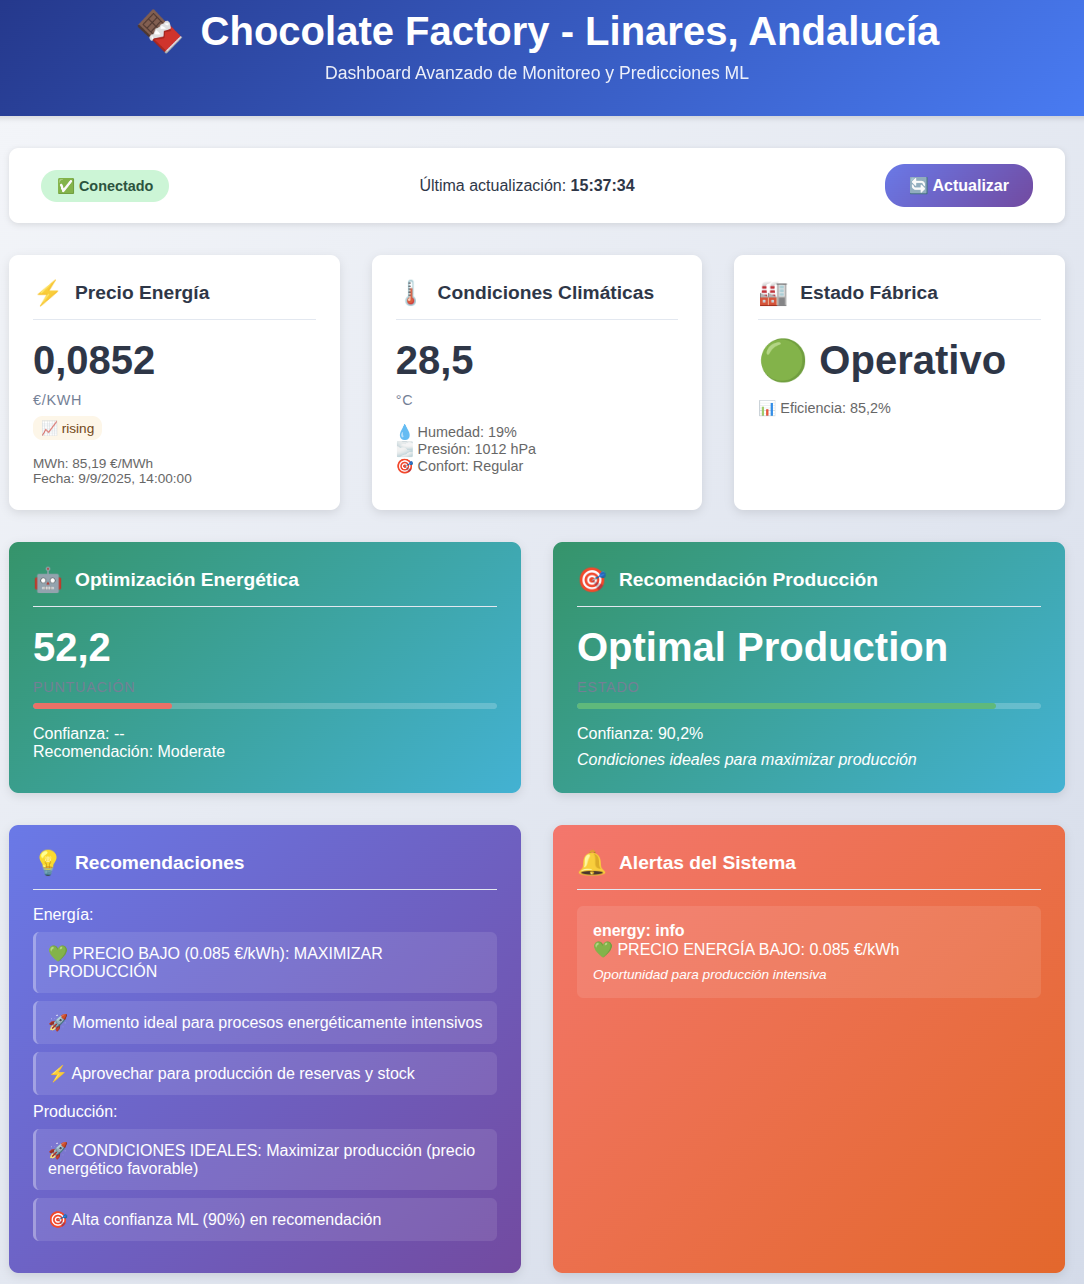
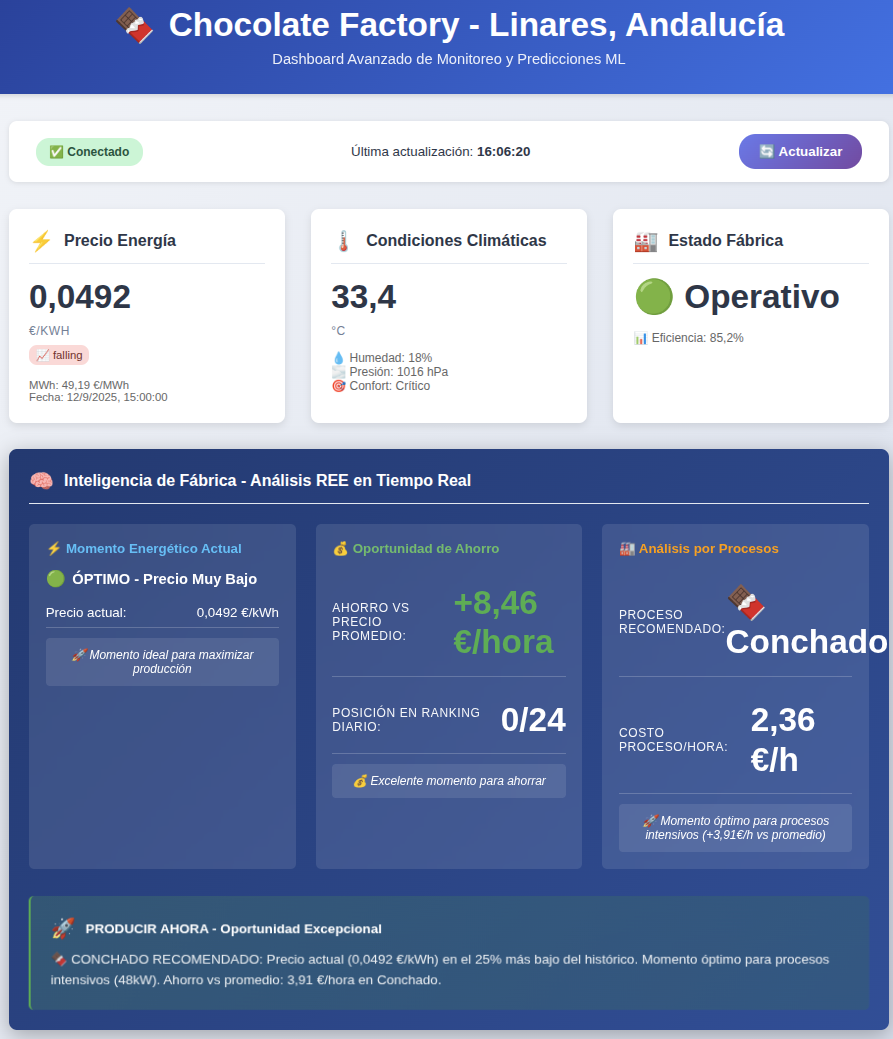
capturas nuevas

diff --git a/src/fastapi-app/main.py b/src/fastapi-app/main.py
@@ -2909,6 +2909,22 @@ async def serve_enhanced_dashboard():
                 font-size: 1rem;
             }
             
+            /* Tamaños específicos para la tarjeta de inteligencia */
+            .savings-insight .metric-value,
+            .process-analysis .metric-value {
+                font-size: 1.2rem !important;
+                font-weight: 700;
+                line-height: 1.2;
+            }
+            
+            /* Valores específicos que se salen de la tarjeta */
+            #current-savings-potential,
+            #recommended-process,
+            #process-cost {
+                font-size: 0.9rem !important;
+                font-weight: 600;
+            }
+            
             #optimization-recommendations .recommendation-item {
                 margin-bottom: 0.5rem;
                 padding: 0.5rem;
@@ -2932,7 +2948,7 @@ async def serve_enhanced_dashboard():
                 backdrop-filter: blur(10px);
             }
             
-            .current-status, .savings-insight {
+            .current-status, .savings-insight, .process-analysis {
                 display: flex;
                 flex-direction: column;
                 gap: 0.75rem;
@@ -2950,7 +2966,7 @@ async def serve_enhanced_dashboard():
                 font-size: 1.2rem;
             }
             
-            .status-detail, .savings-metric {
+            .status-detail, .savings-metric, .process-metric {
                 display: flex;
                 justify-content: space-between;
                 align-items: center;
@@ -2958,11 +2974,11 @@ async def serve_enhanced_dashboard():
                 border-bottom: 1px solid rgba(255, 255, 255, 0.2);
             }
             
-            .status-detail:last-child, .savings-metric:last-child {
+            .status-detail:last-child, .savings-metric:last-child, .process-metric:last-child {
                 border-bottom: none;
             }
             
-            .status-action, .savings-action {
+            .status-action, .savings-action, .process-action {
                 padding: 0.75rem;
                 background: rgba(255, 255, 255, 0.1);
                 border-radius: 6px;
@@ -3177,7 +3193,7 @@ async def serve_enhanced_dashboard():
                     <span class="card-icon">🧠</span>
                     <span class="card-title">Inteligencia de Fábrica - Análisis REE en Tiempo Real</span>
                 </div>
-                <div class="grid grid-2" style="gap: 1.5rem; margin-top: 1.5rem;">
+                <div class="grid grid-3" style="gap: 1.5rem; margin-top: 1.5rem;">
                     <!-- Momento Óptimo Actual -->
                     <div class="insights-section">
                         <h4 style="color: #4FC3F7; margin-bottom: 1rem; font-size: 1rem;">⚡ Momento Energético Actual</h4>
@@ -3209,6 +3225,24 @@ async def serve_enhanced_dashboard():
                             </div>
                             <div class="savings-action" id="savings-action">
                                 Analizando oportunidades...
+                            </div>
+                        </div>
+                    </div>
+                    
+                    <!-- Análisis por Procesos -->
+                    <div class="insights-section">
+                        <h4 style="color: #FF9800; margin-bottom: 1rem; font-size: 1rem;">🏭 Análisis por Procesos</h4>
+                        <div class="process-analysis">
+                            <div class="process-metric">
+                                <span class="metric-label">Proceso Recomendado:</span>
+                                <span class="metric-value" id="recommended-process">--</span>
+                            </div>
+                            <div class="process-metric">
+                                <span class="metric-label">Costo Proceso/hora:</span>
+                                <span class="metric-value" id="process-cost">-- €/h</span>
+                            </div>
+                            <div class="process-action" id="process-action">
+                                Calculando procesos...
                             </div>
                         </div>
                     </div>
@@ -3380,7 +3414,7 @@ async def serve_enhanced_dashboard():
                 </div>
                 <div class="sources-grid">
                     <div class="source-item">⚡ REE (Precios)</div>
-                    <div class="source-item">🌡 AEMET (00-07h)</div>
+                    <div class="source-item">🌡 AEMET 5279X (00-07h)</div>
                     <div class="source-item">☁ OpenWeather (08-23h)</div>
                     <div class="source-item">🤖 ML Direct</div>
                 </div>
@@ -3388,7 +3422,7 @@ async def serve_enhanced_dashboard():
         </div>
         
         <div class="footer">
-            Chocolate Factory - Linares, Andalucía | Dashboard v0.9.0 | 
+            Chocolate Factory - Linares, Andalucía | Dashboard v0.19.0 | 
             Powered by FastAPI + ML Predictions
         </div>
         
@@ -3579,6 +3613,53 @@ Recomendación: ${day.production_recommendation}`;
                     }
                 }
                 
+                // Análisis por procesos de fábrica
+                const processes = {
+                    'Conchado': 48,    // kW - Proceso más intensivo
+                    'Rolado': 42,      // kW - Refinado del chocolate
+                    'Templado': 36,    // kW - Control de temperatura
+                    'Mezcla': 30       // kW - Proceso básico
+                };
+                
+                // Calcular costo por proceso en el precio actual
+                const processCosts = Object.entries(processes).map(([name, kw]) => ({
+                    name,
+                    kw,
+                    costPerHour: currentPrice * kw,
+                    savingsVsAvg: (avgPrice - currentPrice) * kw
+                }));
+                
+                // Recomendar proceso basado en precio actual
+                const recommendedProcessEl = document.getElementById('recommended-process');
+                const processCostEl = document.getElementById('process-cost');
+                const processActionEl = document.getElementById('process-action');
+                
+                if (pricePosition <= 0.25) {
+                    // Precio muy bajo - recomendar proceso más intensivo
+                    const bestProcess = processCosts[0]; // Conchado (48kW)
+                    if (recommendedProcessEl) recommendedProcessEl.textContent = '🍫 Conchado';
+                    if (processCostEl) processCostEl.textContent = formatSpanishNumber(bestProcess.costPerHour, 2) + ' €/h';
+                    if (processActionEl) processActionEl.textContent = `🚀 Momento óptimo para procesos intensivos (+${formatSpanishNumber(bestProcess.savingsVsAvg, 2)}€/h vs promedio)`;
+                } else if (pricePosition <= 0.4) {
+                    // Precio bajo-medio - recomendar proceso intermedio
+                    const goodProcess = processCosts[1]; // Rolado (42kW)
+                    if (recommendedProcessEl) recommendedProcessEl.textContent = '🔄 Rolado';
+                    if (processCostEl) processCostEl.textContent = formatSpanishNumber(goodProcess.costPerHour, 2) + ' €/h';
+                    if (processActionEl) processActionEl.textContent = `✅ Condiciones favorables para refinado (+${formatSpanishNumber(goodProcess.savingsVsAvg, 2)}€/h)`;
+                } else if (pricePosition <= 0.6) {
+                    // Precio medio - recomendar proceso estándar
+                    const stdProcess = processCosts[2]; // Templado (36kW)
+                    if (recommendedProcessEl) recommendedProcessEl.textContent = '🌡 Templado';
+                    if (processCostEl) processCostEl.textContent = formatSpanishNumber(stdProcess.costPerHour, 2) + ' €/h';
+                    if (processActionEl) processActionEl.textContent = `⚖ Proceso estándar recomendado (${formatSpanishNumber(Math.abs(stdProcess.savingsVsAvg), 2)}€/h vs promedio)`;
+                } else {
+                    // Precio alto - recomendar proceso de menor consumo
+                    const lowProcess = processCosts[3]; // Mezcla (30kW)
+                    if (recommendedProcessEl) recommendedProcessEl.textContent = '🥄 Mezcla';
+                    if (processCostEl) processCostEl.textContent = formatSpanishNumber(lowProcess.costPerHour, 2) + ' €/h';
+                    if (processActionEl) processActionEl.textContent = `⚠ Solo procesos básicos recomendados (sobrecosto: +${formatSpanishNumber(Math.abs(lowProcess.savingsVsAvg), 2)}€/h)`;
+                }
+                
                 // Recomendación principal inteligente
                 const recIconEl = document.getElementById('recommendation-icon');
                 const recTitleEl = document.getElementById('recommendation-title');
@@ -3587,23 +3668,23 @@ Recomendación: ${day.production_recommendation}`;
                 if (pricePosition <= 0.25) {
                     if (recIconEl) recIconEl.textContent = '🚀';
                     if (recTitleEl) recTitleEl.textContent = 'PRODUCIR AHORA - Oportunidad Excepcional';
-                    if (recDetailEl) recDetailEl.textContent = `Precio actual (${formatSpanishNumber(currentPrice, 4)} €/kWh) está en el 25% más bajo del histórico. Ahorro potencial: ${formatSpanishNumber(savingsPerHour, 2)} €/hora vs promedio. Momento ideal para maximizar producción y aprovechar costos energéticos reducidos.`;
+                    if (recDetailEl) recDetailEl.textContent = `🍫 CONCHADO RECOMENDADO: Precio actual (${formatSpanishNumber(currentPrice, 4)} €/kWh) en el 25% más bajo del histórico. Momento óptimo para procesos intensivos (48kW). Ahorro vs promedio: ${formatSpanishNumber((avgPrice - currentPrice) * 48, 2)} €/hora en Conchado.`;
                 } else if (pricePosition <= 0.4) {
                     if (recIconEl) recIconEl.textContent = '✅';
-                    if (recTitleEl) recTitleEl.textContent = 'PRODUCIR - Condiciones Favorables';
-                    if (recDetailEl) recDetailEl.textContent = `Precio energético favorable para producción. Costo actual ${formatSpanishNumber(((currentPrice - minPrice) / (maxPrice - minPrice)) * 100, 1)}% por encima del mínimo histórico. Recomendado proceder con planificación normal.`;
+                    if (recTitleEl) recTitleEl.textContent = 'PRODUCIR - Rolado Recomendado';
+                    if (recDetailEl) recDetailEl.textContent = `🔄 ROLADO FAVORABLE: Condiciones buenas para refinado (42kW). Costo actual: ${formatSpanishNumber(currentPrice * 42, 2)} €/hora. Ahorro vs promedio: +${formatSpanishNumber((avgPrice - currentPrice) * 42, 2)} €/hora.`;
                 } else if (pricePosition <= 0.6) {
                     if (recIconEl) recIconEl.textContent = '⚖';
-                    if (recTitleEl) recTitleEl.textContent = 'EVALUAR - Precio Medio';
-                    if (recDetailEl) recDetailEl.textContent = `Precio en rango medio del histórico. Evaluar urgencia vs costo. Si no es urgente, considerar esperar a precios más favorables. Diferencia vs óptimo: +${formatSpanishNumber((currentPrice - minPrice) * hourlyConsumption, 2)} €/hora.`;
+                    if (recTitleEl) recTitleEl.textContent = 'EVALUAR - Templado Estándar';
+                    if (recDetailEl) recDetailEl.textContent = `🌡 TEMPLADO RECOMENDADO: Precio medio, ideal para procesos estándar (36kW). Costo: ${formatSpanishNumber(currentPrice * 36, 2)} €/hora. Evaluar urgencia vs esperar mejores condiciones para procesos intensivos.`;
                 } else if (pricePosition <= 0.8) {
                     if (recIconEl) recIconEl.textContent = '⚠';
-                    if (recTitleEl) recTitleEl.textContent = 'DIFERIR - Precio Elevado';
-                    if (recDetailEl) recDetailEl.textContent = `Precio en el 20% superior del rango histórico. Recomendado diferir producción no urgente. Costo adicional vs momento óptimo: +${formatSpanishNumber((currentPrice - minPrice) * hourlyConsumption, 2)} €/hora.`;
+                    if (recTitleEl) recTitleEl.textContent = 'DIFERIR - Solo Procesos Básicos';
+                    if (recDetailEl) recDetailEl.textContent = `🥄 SOLO MEZCLA: Precio elevado, limitarse a procesos básicos (30kW). Costo Mezcla: ${formatSpanishNumber(currentPrice * 30, 2)} €/hora. Diferir Conchado y Rolado hasta mejores condiciones.`;
                 } else {
                     if (recIconEl) recIconEl.textContent = '🛑';
-                    if (recTitleEl) recTitleEl.textContent = 'SUSPENDER - Precio Muy Alto';
-                    if (recDetailEl) recDetailEl.textContent = `⚠ ALERTA: Precio en el 20% más alto del histórico (${formatSpanishNumber(currentPrice, 4)} €/kWh). Suspender producción no crítica. Esperar mejores condiciones. Sobrecosto vs óptimo: +${formatSpanishNumber((currentPrice - minPrice) * hourlyConsumption, 2)} €/hora.`;
+                    if (recTitleEl) recTitleEl.textContent = 'SUSPENDER - Precio Crítico';
+                    if (recDetailEl) recDetailEl.textContent = `⚠ ALERTA CRÍTICA: Precio en máximos históricos (${formatSpanishNumber(currentPrice, 4)} €/kWh). Incluso Mezcla cuesta ${formatSpanishNumber(currentPrice * 30, 2)} €/h. Suspender toda producción no crítica hasta mejores condiciones.`;
                 }
             }
             
